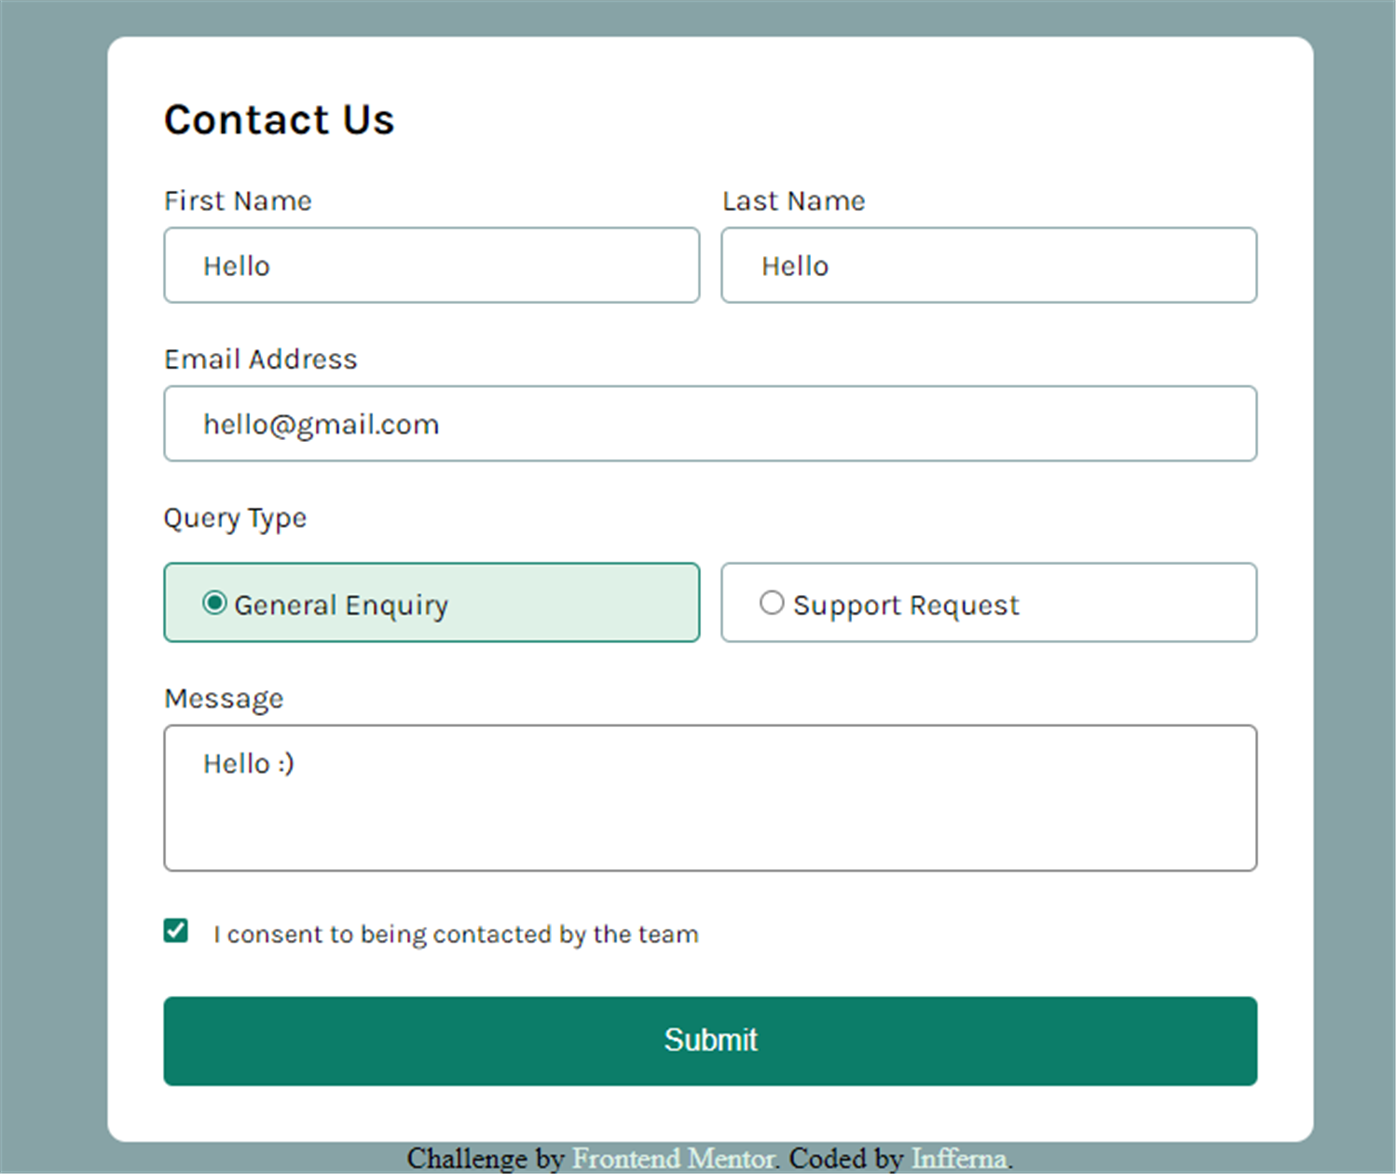
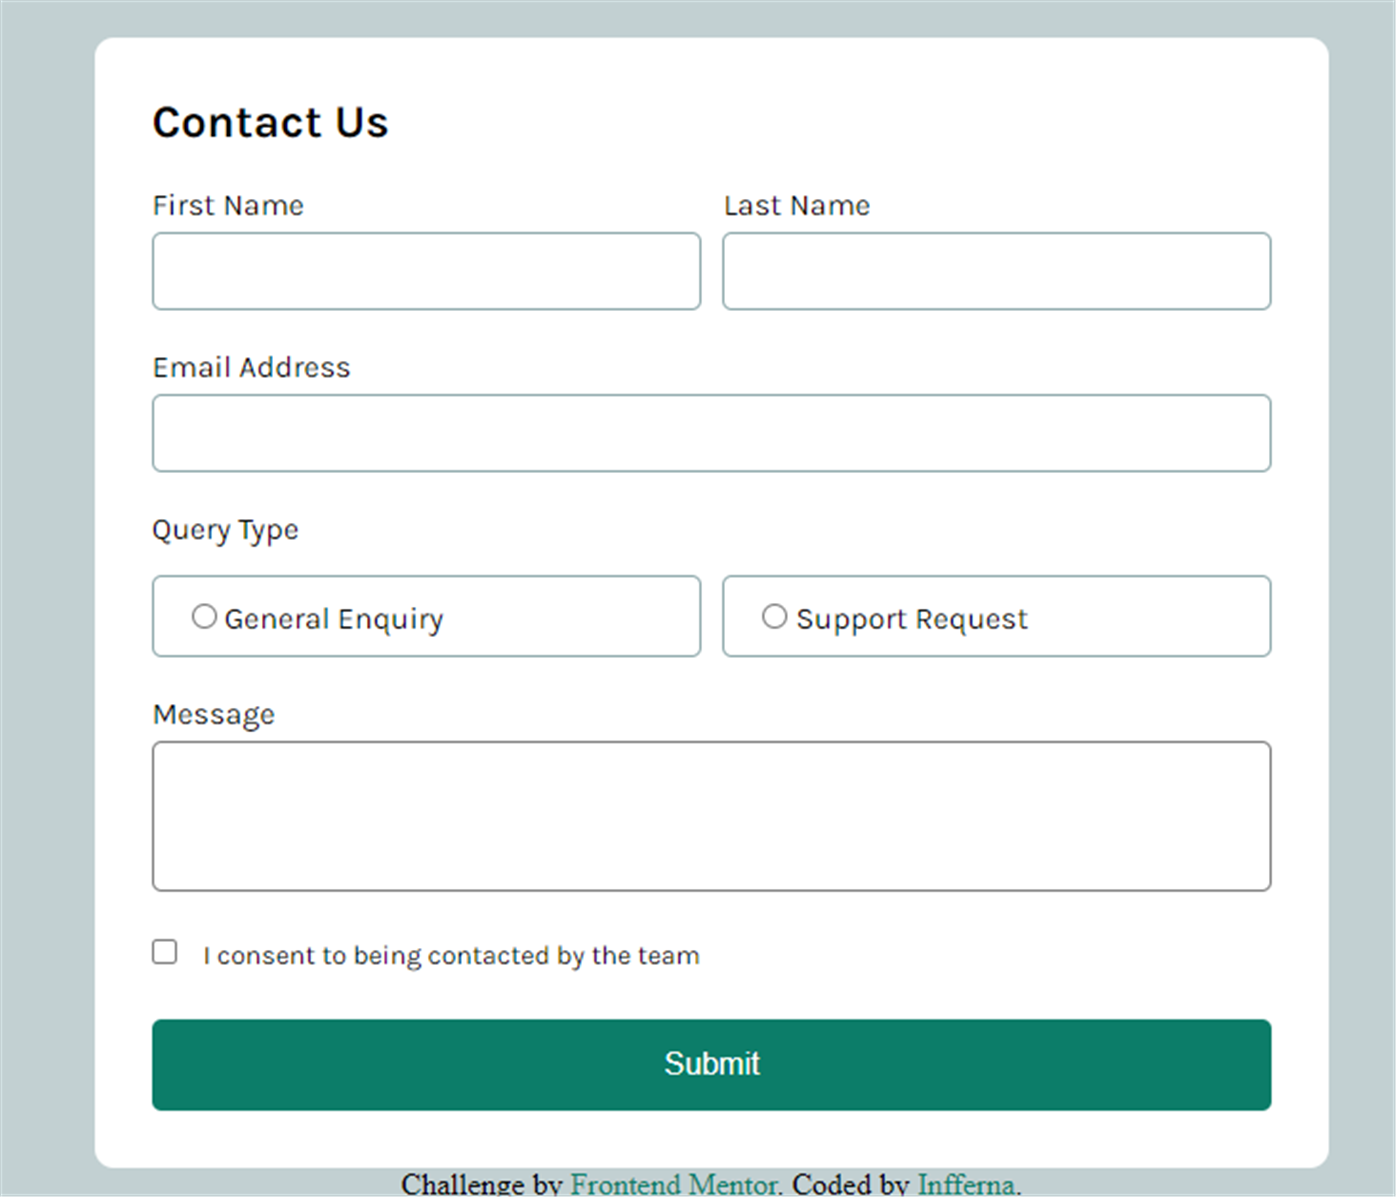
Small changes in colors

Changed region(s): [[0.0, 0.0, 1.0, 1.0], [0.5236, 0.1533, 0.616, 0.184], [0.4928, 0.184, 0.5236, 0.2453]]

diff --git a/style.css b/style.css
@@ -12,7 +12,7 @@ body {
   align-items: center;
   justify-content: center;
   flex-direction: column;
-  background-color: hsla(186, 15%, 59%, 1);
+  background-color: hsla(186, 15%, 59%, 0.5);
   margin-top: 6%;
   margin-left: 10%;
   margin-right: 10%;
@@ -199,7 +199,7 @@ input[type="checkbox"] {
 /* ####### TEXT ####### */
 a {
   text-decoration: none;
-  color: hsl(148, 38%, 91%);
+  color: hsl(169, 82%, 27%);
 }
 
 input,
